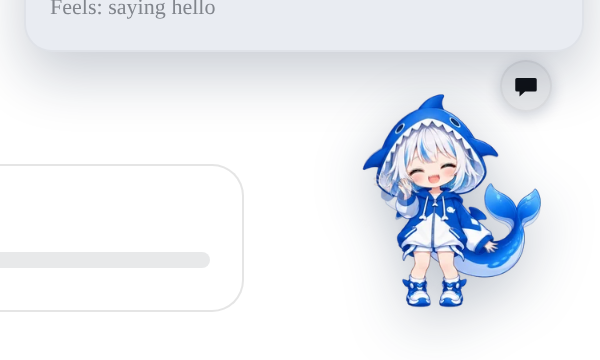
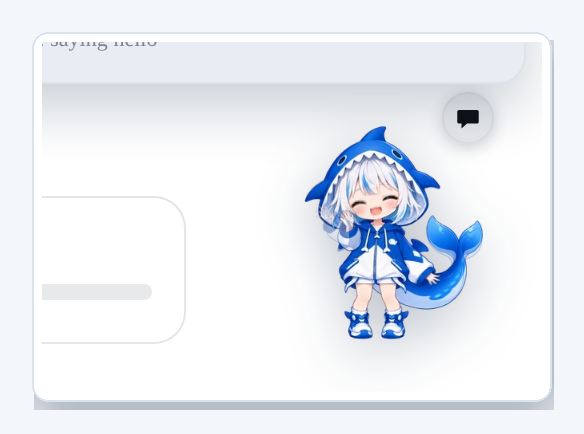
polish: clearer off state for the sidebar chip, styled docs images
The hidden state only dimmed the label, which was hard to read in a row of
unrelated chips; it now drops to 62% opacity as well. The README's sidebar
image shows both states side by side on a card, cropped so no neighbouring
credit amount is visible, and the settings/chat images get the same card
treatment.

diff --git a/client.js b/client.js
@@ -757,7 +757,10 @@ window.__ModuleLoader__.load({
         + 'max-width:100%;box-sizing:border-box;padding:0 8px;position:relative;border:1px solid transparent;border-radius:8px;'
         + 'background:none;color:var(--dsw-alias-label-secondary);cursor:pointer;font:inherit;font-size:12px;font-weight:600;line-height:1}',
       '.dsh-chibi-pet-toggle:hover{background:var(--dsw-alias-interactive-bg-hover);color:var(--dsw-alias-label-primary)}',
-      '.dsh-chibi-pet-toggle[aria-checked="false"]{color:var(--dsw-alias-label-tertiary)}',
+      // A hidden pet has to be obvious at a glance in the foot row, where the
+      // chip sits beside unrelated controls.
+      '.dsh-chibi-pet-toggle[aria-checked="false"]{color:var(--dsw-alias-label-tertiary);opacity:.62}',
+      '.dsh-chibi-pet-toggle[aria-checked="false"]:hover{opacity:1}',
       '.dsh-chibi-pet-toggle:focus-visible{outline:2px solid var(--dsw-alias-brand-primary);outline-offset:-2px}',
       '.dsh-chibi-pet-label{overflow:hidden;text-overflow:ellipsis;white-space:nowrap}',
       '.dsh-chibi-pet-dot{position:absolute;top:2px;right:2px;width:7px;height:7px;border-radius:50%;'

diff --git a/src/pet-client.js b/src/pet-client.js
@@ -743,7 +743,10 @@ window.__ModuleLoader__.load({
         + 'max-width:100%;box-sizing:border-box;padding:0 8px;position:relative;border:1px solid transparent;border-radius:8px;'
         + 'background:none;color:var(--dsw-alias-label-secondary);cursor:pointer;font:inherit;font-size:12px;font-weight:600;line-height:1}',
       '.dsh-chibi-pet-toggle:hover{background:var(--dsw-alias-interactive-bg-hover);color:var(--dsw-alias-label-primary)}',
-      '.dsh-chibi-pet-toggle[aria-checked="false"]{color:var(--dsw-alias-label-tertiary)}',
+      // A hidden pet has to be obvious at a glance in the foot row, where the
+      // chip sits beside unrelated controls.
+      '.dsh-chibi-pet-toggle[aria-checked="false"]{color:var(--dsw-alias-label-tertiary);opacity:.62}',
+      '.dsh-chibi-pet-toggle[aria-checked="false"]:hover{opacity:1}',
       '.dsh-chibi-pet-toggle:focus-visible{outline:2px solid var(--dsw-alias-brand-primary);outline-offset:-2px}',
       '.dsh-chibi-pet-label{overflow:hidden;text-overflow:ellipsis;white-space:nowrap}',
       '.dsh-chibi-pet-dot{position:absolute;top:2px;right:2px;width:7px;height:7px;border-radius:50%;'
